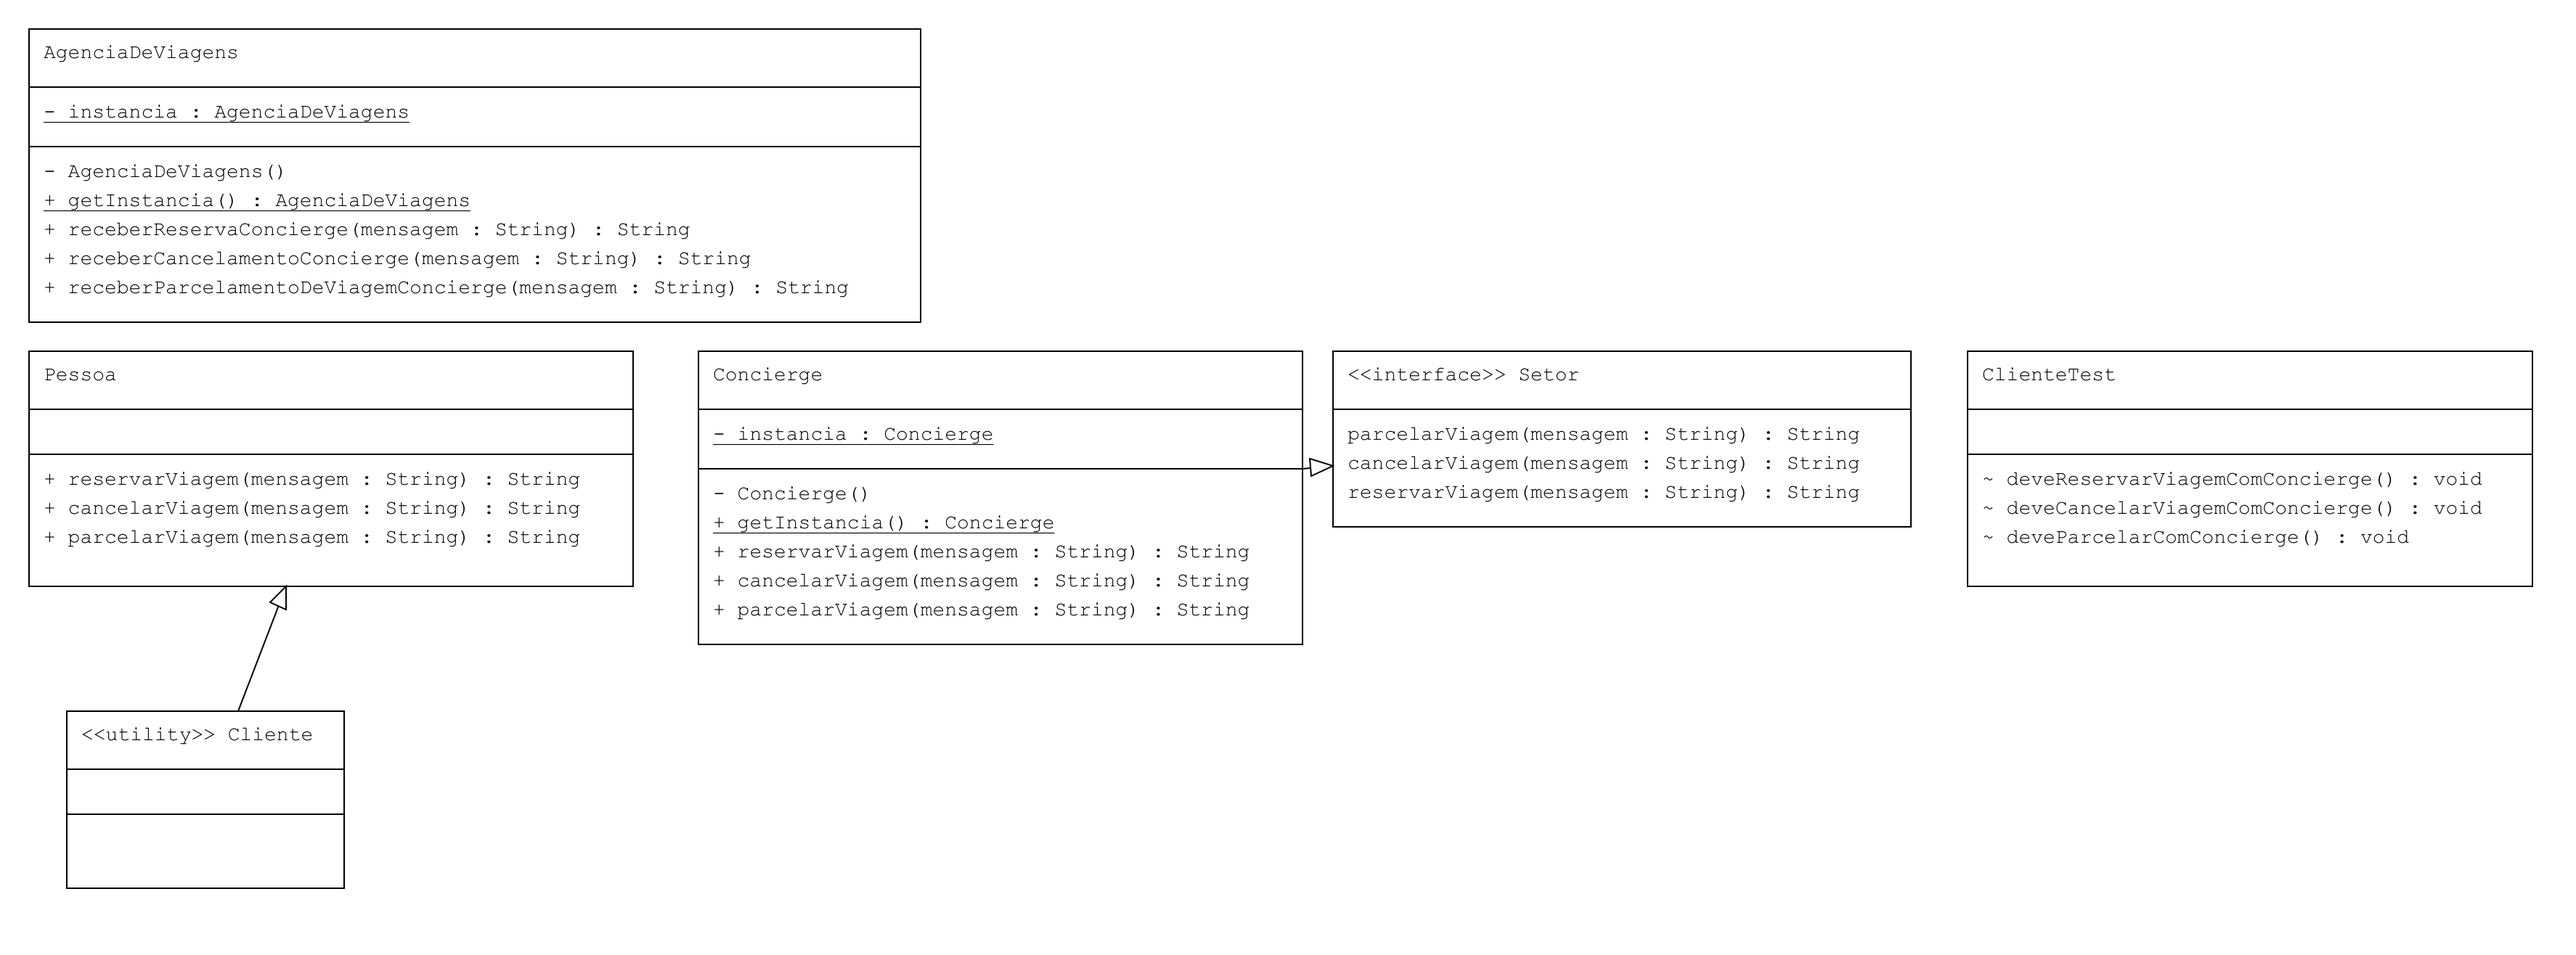
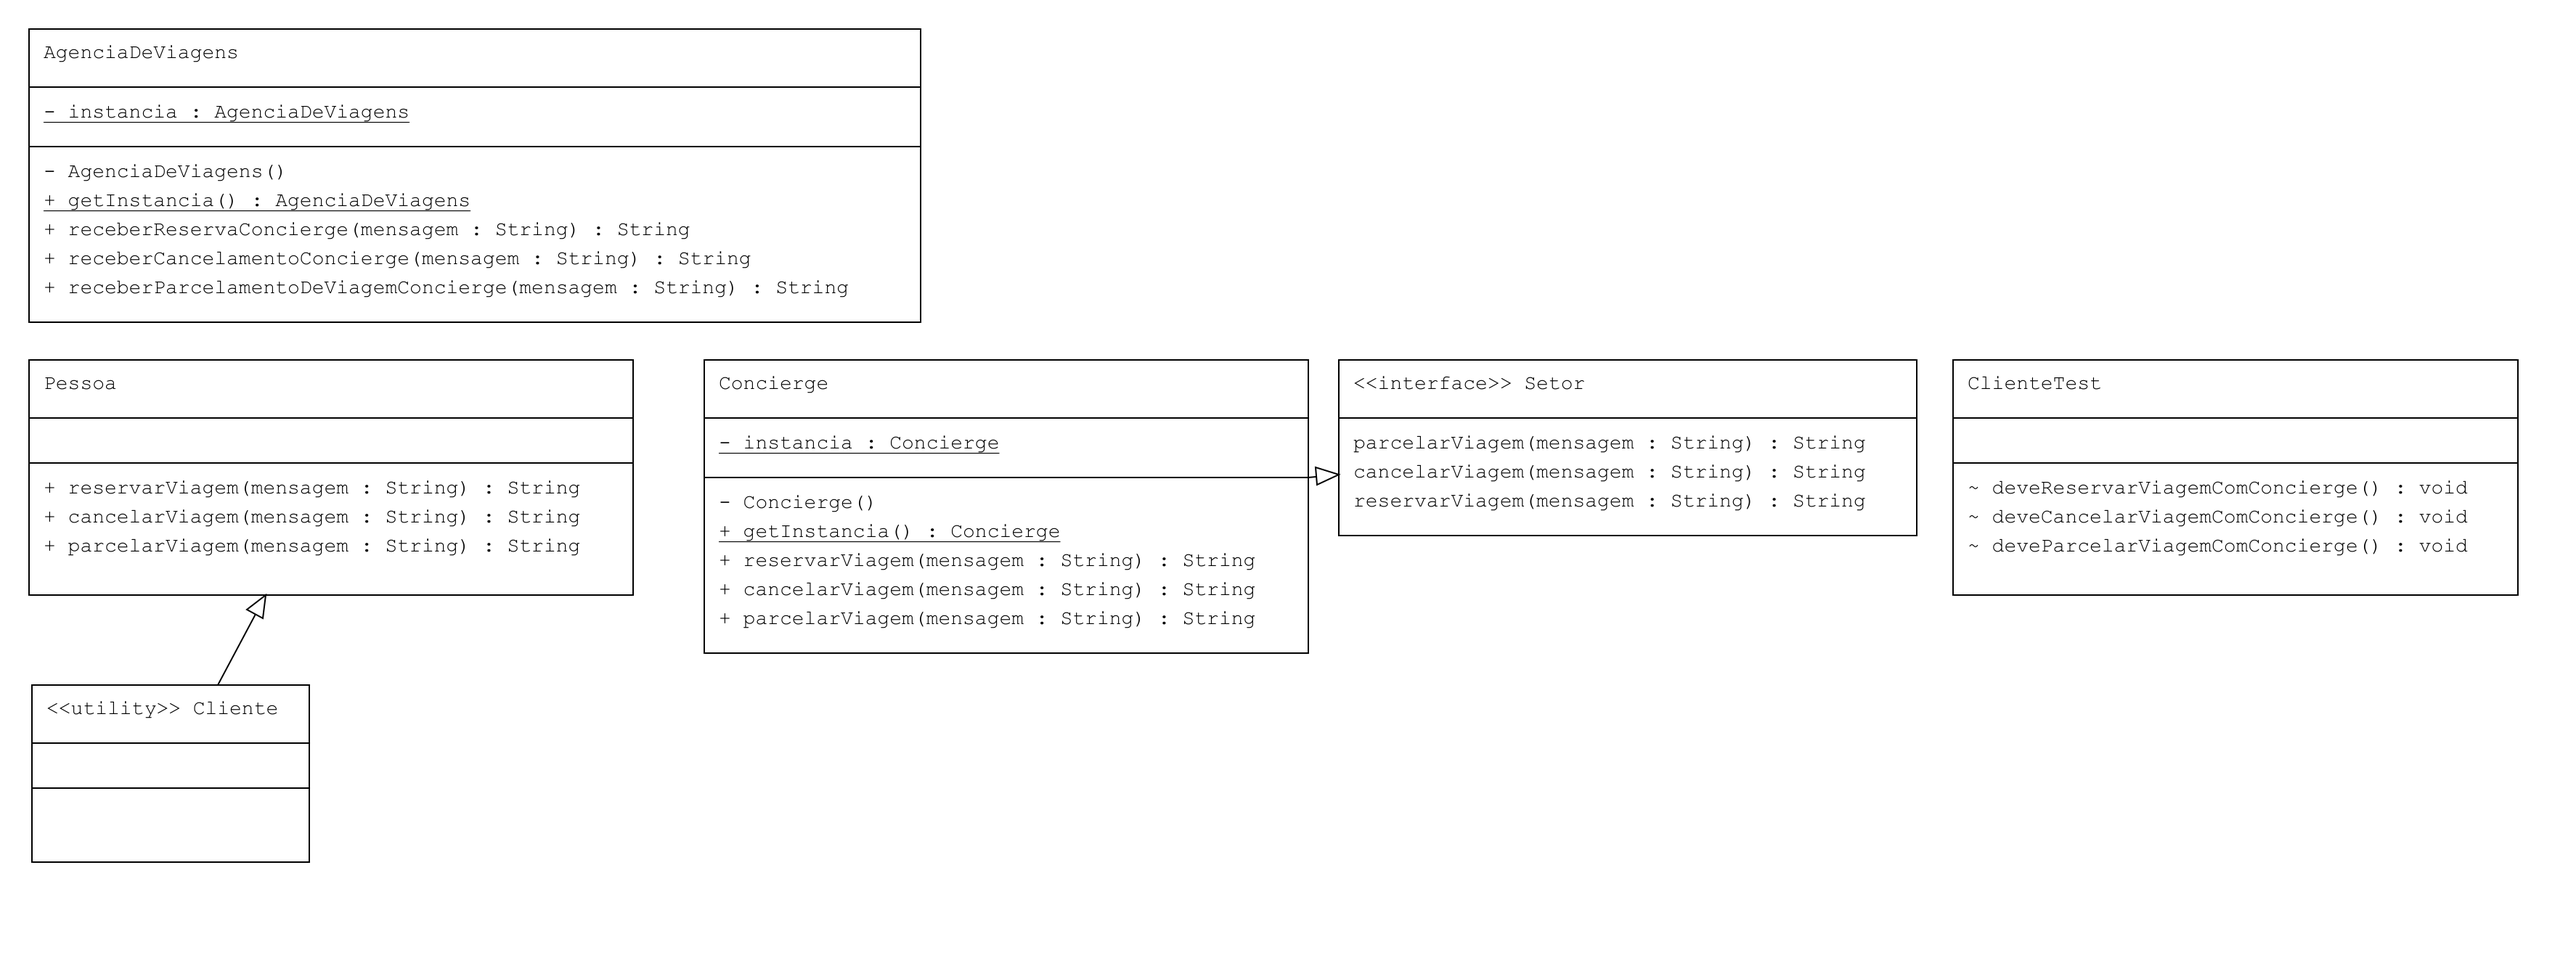
Trabalho Finalizado!

diff --git a/src/test/java/padroescomportamentais/mediator/ClienteTest.java b/src/test/java/padroescomportamentais/mediator/ClienteTest.java
@@ -23,7 +23,7 @@ class ClienteTest {
     }
 
     @Test
-    void deveParcelarComConcierge() {
+    void deveParcelarViagemComConcierge() {
         Cliente cliente = new Cliente();
         assertEquals("A AgenciaDeViagens agradece seu contato.\nO Concierge respondeu sua demanda conforme mensagem a seguir.\n" +
                 ">>O Concierge vai analisar o parcelamento: Gostaria de parcelar a viagem em 96 vezes.",
